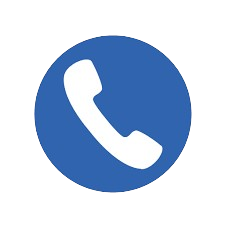
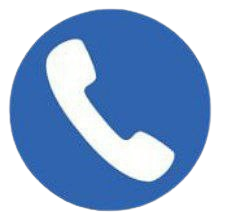
border hover of tag a

diff --git a/index.html b/index.html
@@ -161,16 +161,16 @@
       <div class="col-md-4">
         <h4>Contact</h4>
         <a href="tel:0886159728" class="contact">
-          <img src="images/contact icon/tel-icon.png" alt="" class="contact-icon phone">
+          <img src="images/contact icon/tel-icon.png" alt="" class="contact-icon-footer phone">
         </a>
         <a href="https://t.me/NguotTiv" class="contact">
-          <img src="images/contact icon/telegram-icon.png" alt="" class="contact-icon telegram">
+          <img src="images/contact icon/telegram-icon.png" alt="" class="contact-icon-footer telegram">
         </a>
         <a href="mailto:tiv.nguot@gmail.com" class="contact">
-          <img src="images/contact icon/mail-icon.png" alt="" class="contact-icon mail">
+          <img src="images/contact icon/mail-icon.png" alt="" class="contact-icon-footer mail">
         </a>
         <a href="https://www.linkedin.com/in/tiv-nguot-4803842a3/" class="contact">
-          <img src="images/contact icon/linkedIn-icon.png" alt="" class="contact-icon linkedIn">
+          <img src="images/contact icon/linkedIn-icon.png" alt="" class="contact-icon-footer linkedIn">
         </a>
 
       </div>
@@ -193,7 +193,7 @@
     </div>
     <div class="row mt-3">
       <div class="col-md-12 text-center">
-        <p>&copy; 2024 My Professional Portfolio. All Rights Reserved.</p>
+        <p>&copy; 2024 TIV Portfolio. All Rights Reserved.</p>
       </div>
     </div>
   </div>

diff --git a/css/styles.css b/css/styles.css
@@ -9,6 +9,7 @@ body{
 .contact{
   text-decoration: none;
 }
+
 .contact-icon{
   width: 50px;
   border-radius: 50px;
@@ -19,7 +20,7 @@ body{
   border:1px solid #8a2f7f;
 }
 .phone{
-  width: 60px;
+  /* width: 60px; */
 }
 .first-profile{
   display: none;
@@ -33,6 +34,8 @@ body{
 }
 .nav-item a:hover{
   color: #48cae4a1;
+  border-bottom:1px solid #8a2f7f;
+
 }
 .programming{
   width: 50px;
@@ -43,6 +46,14 @@ body{
   height: 110px;
   background: white;
   border-radius: 5px;
+}
+.contact-icon-footer{
+  width: 35px;
+  border-radius: 50px;
+  text-decoration: none;
+}
+.contact-icon-footer:hover{
+  border:1px solid #8a2f7f;
 }
 
 /* responsive  */
